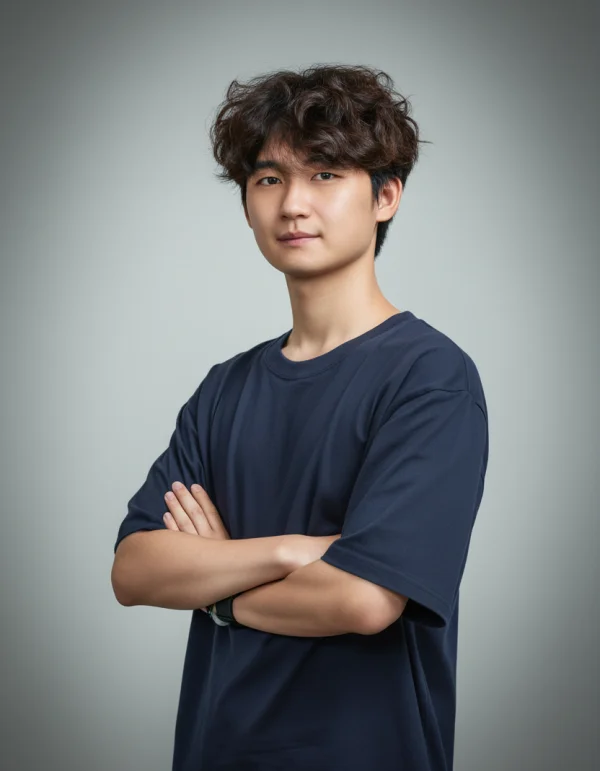
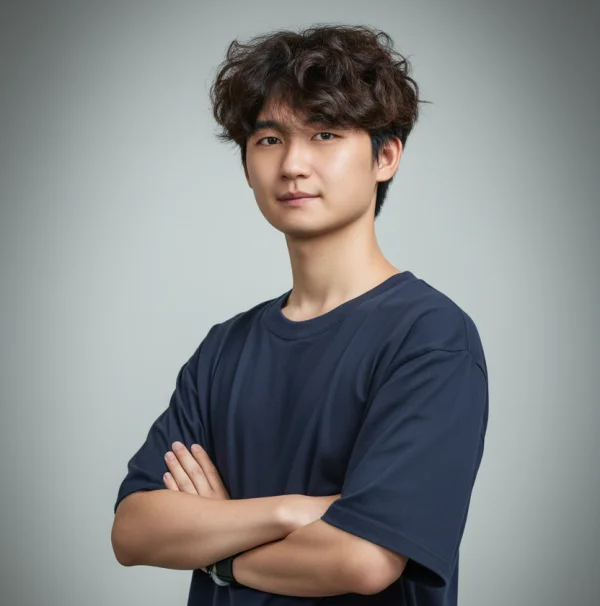
tt

diff --git a/_pages/people.md b/_pages/people.md
@@ -65,7 +65,7 @@ profiles:
   - role: PhD
     name: Artem Voronov
     image: people/artemvoronov.jpg
-    position: PhD Student
+    position: PhD Student<br>MSc, Skoltech
     social:
       email: artem.voronov@mbzuai.ac.ae
       scholar_userid: rCVVahYAAAAJ
@@ -85,7 +85,7 @@ profiles:
     name: Haoran Zhang
     image: people/haoranzhang.jpg
     image_position: center top
-    position: PhD Student<br>MS, University of Michigan
+    position: PhD Student<br>MSc, University of Michigan
     social:
       email: Haoran.Zhang@mbzuai.ac.ae
       website: https://haoranzhangumich.github.io/
@@ -96,7 +96,7 @@ profiles:
   - role: PhD
     name: Lei Cheng
     image: people/leicheng.png
-    position: PhD Student<br>MS, Technical University of Munich
+    position: PhD Student<br>MSc, TUM
     social:
       email: Lei.Cheng@mbzuai.ac.ae
       github_username: Starry-lei
@@ -114,14 +114,14 @@ profiles:
     name: Chenru Wen
     image: people/chenruwen.png
     image_position: center top
-    position: M.Sc. Student<br>Co-sup. with Prof. Dezhen Song<br>BSc, Tsinghua University
+    position: MSc Student<br>Co-sup. with Prof. Dezhen Song<br>BSc, Tsinghua University
     social:
       email: chenru.wen@mbzuai.ac.ae
 
   - role: MSc
     name: Haokai Ding
     image: people/haokaiding.png
-    position: M.Sc. Student<br>BEng, Shenzhen Technology University
+    position: MSc Student<br>BEng, Shenzhen Technology University
     social:
       email: ditang0125@gmail.com
       website: https://haokaiding.github.io/
